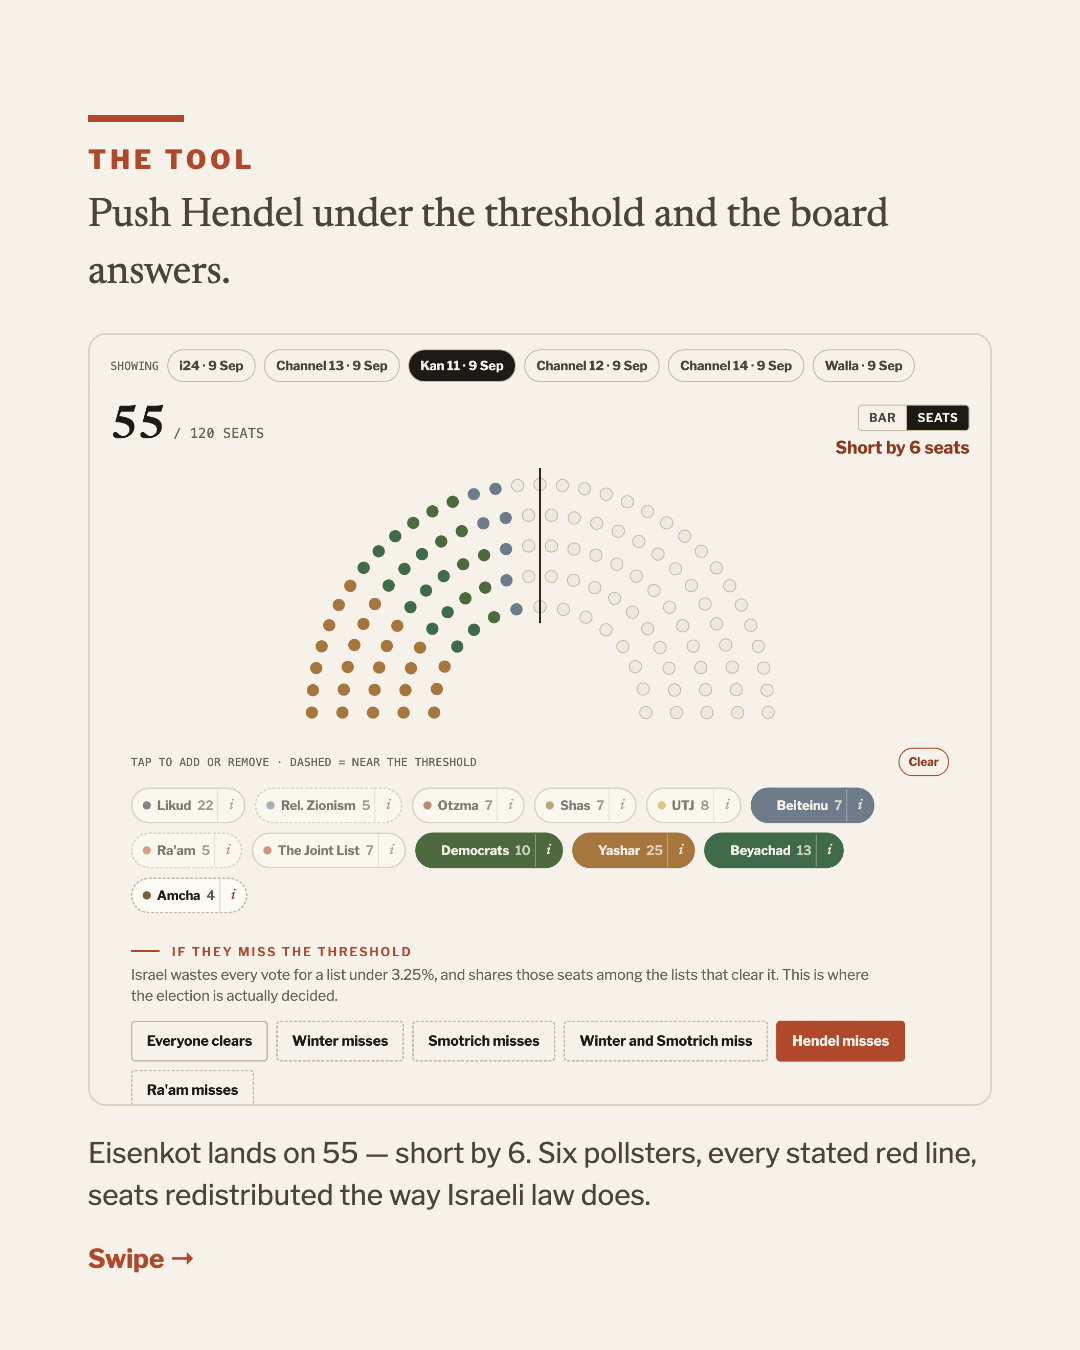
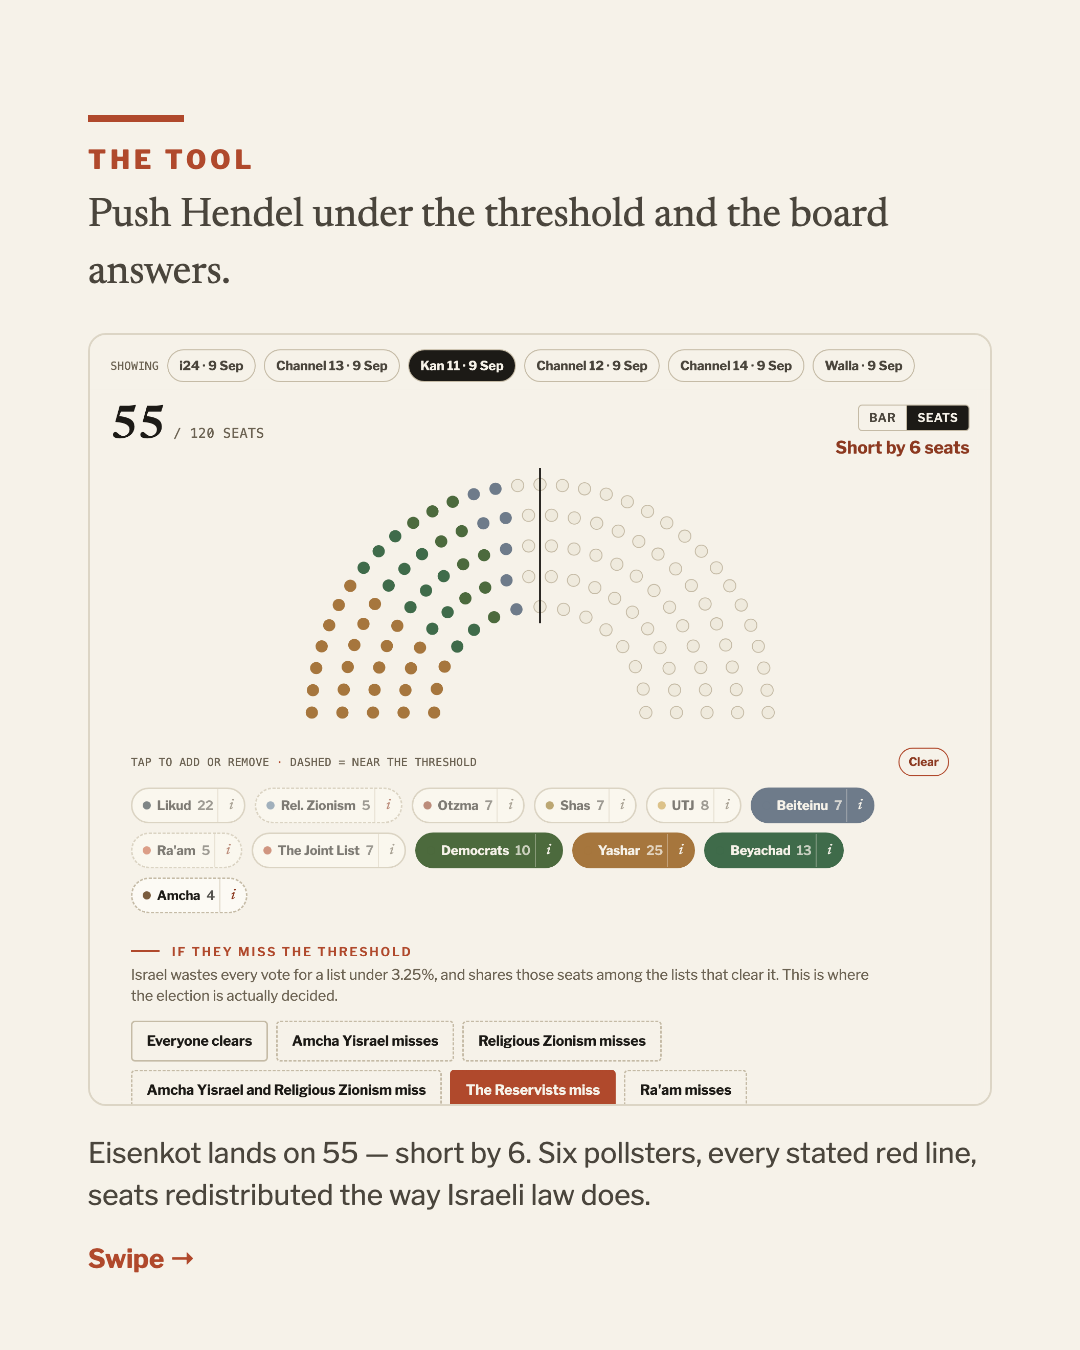
Name lists, not leaders, in the threshold buttons — and add Noam
The buttons mixed conventions: five leader names and one party name
("Ra'am misses"). They now all name the list, which also closes a smaller
gap — pressing "Hendel misses" made a chip labelled "Reservists" vanish,
so the button and the thing it changed did not share a name.

Adds Noam. It polls inside Wikipedia's "Others" column, so the scraper
cannot see it and the figure is set by hand; it is given "under 1%" rather
than a number no pollster publishes.

That exposed a gap: a party on zero seats renders nowhere at all, so The
Haredi Public has been invisible since it was added. The threshold section
now closes with the lists already under the line — Blue & White, The
Haredi Public and Noam — built from the board itself, so it cannot drift
from the data and a party that climbs over 3.25% leaves the sentence on
its own.

Changed region(s): [[0.1528, 0.7467, 0.8556, 0.84]]

diff --git a/index.html b/index.html
@@ -378,7 +378,7 @@
       </div>
       <div style="height:22px;"></div>
       </sc-if>
-      <div style="max-width:1140px;margin:0 auto;padding:16px 20px 6px;"><div style="display:flex;align-items:center;justify-content:space-between;gap:10px;margin-bottom:11px;"><span class="ek-meta" style="font-size:0.68rem;">Tap to add or remove <span style="color:var(--clay);">·</span> dashed = near the threshold</span><sc-if value="{{ hasCoalition }}" hint-placeholder-val="{{ false }}"><span style="display:inline-flex;gap:6px;flex:none;"><sc-if value="{{ canUndo }}" hint-placeholder-val="{{ false }}"><button sc-camel-on-click="{{ undo }}" aria-label="Undo the last change" style="font-family:var(--font-sans);font-weight:700;font-size:0.72rem;padding:4px 9px;min-height:28px;background:none;color:var(--ink-3);border:1px solid var(--rule-strong);border-radius:var(--r-pill);cursor:pointer;">↺ Undo</button></sc-if><button sc-camel-on-click="{{ clearAll }}" aria-label="Clear the coalition" style="font-family:var(--font-sans);font-weight:700;font-size:0.72rem;padding:4px 9px;min-height:28px;background:none;color:var(--clay-deep);border:1px solid var(--clay);border-radius:var(--r-pill);cursor:pointer;">Clear</button></span></sc-if></div><div style="display:flex;flex-wrap:wrap;gap:9px;"><sc-for list="{{ quickParties }}" as="q" hint-placeholder-count="0"><span style="display:inline-flex;align-items:stretch;border:1.5px {{ q.borderStyle }} {{ q.border }};border-radius:var(--r-pill);background:{{ q.bg }};overflow:hidden;opacity:{{ q.opacity }};"><button sc-camel-on-click="{{ q.toggle }}" aria-pressed="{{ q.inCoalition }}" aria-label="{{ q.aria }}" title="{{ q.title }}" style="display:inline-flex;align-items:center;gap:6px;font-family:var(--font-sans);font-weight:700;font-size:0.78rem;padding:5px 4px 5px 10px;min-height:32px;background:none;color:{{ q.fg }};border:none;cursor:pointer;"><span style="width:8px;height:8px;border-radius:50%;background:{{ q.dot }};flex:none;"></span>{{ q.name }} <span style="font-weight:600;opacity:0.75;">{{ q.seats }}</span></button><button sc-camel-on-click="{{ q.info }}" aria-label="{{ q.infoAria }}" title="{{ q.infoAria }}" style="display:inline-flex;align-items:center;justify-content:center;width:26px;min-height:32px;background:none;border:none;border-left:1px solid {{ q.divider }};color:{{ q.infoFg }};font-family:var(--font-serif);font-style:italic;font-size:0.86rem;cursor:pointer;flex:none;">i</button></span></sc-for></div></div><sc-if value="{{ hasThresholdScenarios }}" hint-placeholder-val="{{ false }}"><div style="max-width:1140px;margin:0 auto;padding:26px 20px 30px;"><div style="display:flex;align-items:baseline;gap:12px;margin-bottom:6px;"><div style="width:28px;height:2px;background:var(--clay);flex:none;transform:translateY(-4px);"></div><div class="ek-kicker" style="font-size:0.75rem;white-space:nowrap;">IF THEY MISS THE THRESHOLD</div></div><p class="ek-caption" style="margin:0 0 14px;max-width:46rem;">Israel wastes every vote for a list under 3.25%, and shares those seats among the lists that clear it. This is where the election is actually decided.</p><div style="display:flex;flex-wrap:wrap;gap:8px;"><sc-for list="{{ thresholdScenarios }}" as="t" hint-placeholder-count="0"><button sc-camel-on-click="{{ t.apply }}" aria-pressed="{{ t.active }}" style="font-family:var(--font-sans);font-weight:700;font-size:0.85rem;padding:9px 14px;min-height:40px;background:{{ t.bg }};color:{{ t.fg }};border:1.5px {{ t.borderStyle }} {{ t.border }};border-radius:var(--r-sm);cursor:pointer;opacity:{{ t.opacity }};" title="{{ t.title }}" aria-disabled="{{ t.moot }}">{{ t.label }}</button></sc-for></div></div></sc-if><div style="max-width:1140px;margin:0 auto;padding:20px 20px 26px;">
+      <div style="max-width:1140px;margin:0 auto;padding:16px 20px 6px;"><div style="display:flex;align-items:center;justify-content:space-between;gap:10px;margin-bottom:11px;"><span class="ek-meta" style="font-size:0.68rem;">Tap to add or remove <span style="color:var(--clay);">·</span> dashed = near the threshold</span><sc-if value="{{ hasCoalition }}" hint-placeholder-val="{{ false }}"><span style="display:inline-flex;gap:6px;flex:none;"><sc-if value="{{ canUndo }}" hint-placeholder-val="{{ false }}"><button sc-camel-on-click="{{ undo }}" aria-label="Undo the last change" style="font-family:var(--font-sans);font-weight:700;font-size:0.72rem;padding:4px 9px;min-height:28px;background:none;color:var(--ink-3);border:1px solid var(--rule-strong);border-radius:var(--r-pill);cursor:pointer;">↺ Undo</button></sc-if><button sc-camel-on-click="{{ clearAll }}" aria-label="Clear the coalition" style="font-family:var(--font-sans);font-weight:700;font-size:0.72rem;padding:4px 9px;min-height:28px;background:none;color:var(--clay-deep);border:1px solid var(--clay);border-radius:var(--r-pill);cursor:pointer;">Clear</button></span></sc-if></div><div style="display:flex;flex-wrap:wrap;gap:9px;"><sc-for list="{{ quickParties }}" as="q" hint-placeholder-count="0"><span style="display:inline-flex;align-items:stretch;border:1.5px {{ q.borderStyle }} {{ q.border }};border-radius:var(--r-pill);background:{{ q.bg }};overflow:hidden;opacity:{{ q.opacity }};"><button sc-camel-on-click="{{ q.toggle }}" aria-pressed="{{ q.inCoalition }}" aria-label="{{ q.aria }}" title="{{ q.title }}" style="display:inline-flex;align-items:center;gap:6px;font-family:var(--font-sans);font-weight:700;font-size:0.78rem;padding:5px 4px 5px 10px;min-height:32px;background:none;color:{{ q.fg }};border:none;cursor:pointer;"><span style="width:8px;height:8px;border-radius:50%;background:{{ q.dot }};flex:none;"></span>{{ q.name }} <span style="font-weight:600;opacity:0.75;">{{ q.seats }}</span></button><button sc-camel-on-click="{{ q.info }}" aria-label="{{ q.infoAria }}" title="{{ q.infoAria }}" style="display:inline-flex;align-items:center;justify-content:center;width:26px;min-height:32px;background:none;border:none;border-left:1px solid {{ q.divider }};color:{{ q.infoFg }};font-family:var(--font-serif);font-style:italic;font-size:0.86rem;cursor:pointer;flex:none;">i</button></span></sc-for></div></div><sc-if value="{{ hasThresholdScenarios }}" hint-placeholder-val="{{ false }}"><div style="max-width:1140px;margin:0 auto;padding:26px 20px 30px;"><div style="display:flex;align-items:baseline;gap:12px;margin-bottom:6px;"><div style="width:28px;height:2px;background:var(--clay);flex:none;transform:translateY(-4px);"></div><div class="ek-kicker" style="font-size:0.75rem;white-space:nowrap;">IF THEY MISS THE THRESHOLD</div></div><p class="ek-caption" style="margin:0 0 14px;max-width:46rem;">Israel wastes every vote for a list under 3.25%, and shares those seats among the lists that clear it. This is where the election is actually decided.</p><div style="display:flex;flex-wrap:wrap;gap:8px;"><sc-for list="{{ thresholdScenarios }}" as="t" hint-placeholder-count="0"><button sc-camel-on-click="{{ t.apply }}" aria-pressed="{{ t.active }}" style="font-family:var(--font-sans);font-weight:700;font-size:0.85rem;padding:9px 14px;min-height:40px;background:{{ t.bg }};color:{{ t.fg }};border:1.5px {{ t.borderStyle }} {{ t.border }};border-radius:var(--r-sm);cursor:pointer;opacity:{{ t.opacity }};" title="{{ t.title }}" aria-disabled="{{ t.moot }}">{{ t.label }}</button></sc-for></div><sc-if value="{{ hasBelowThreshold }}" hint-placeholder-val="{{ false }}"><p class="ek-caption" style="margin:14px 0 0;max-width:46rem;"><strong style="color:var(--ink-2);">Already below it:</strong> <sc-for list="{{ belowThreshold }}" as="b" hint-placeholder-count="0"><span>{{ b.text }}</span></sc-for> None of them wins a seat on current polling, so none is in the arithmetic above — but their votes are part of what gets redistributed.</p></sc-if></div></sc-if><div style="max-width:1140px;margin:0 auto;padding:20px 20px 26px;">
     <div style="display:flex;align-items:baseline;gap:12px;margin-bottom:12px;">
       <div style="width:28px;height:2px;background:var(--clay);flex:none;transform:translateY(-4px);"></div>
       <div class="ek-kicker" style="font-size:0.75rem;white-space:nowrap;">TRY A SCENARIO</div>
@@ -1938,6 +1938,17 @@ class Component extends DCLogic {
           ? 'var(--paper)' : 'var(--ink-2)',
         pick: () => this.pickPoll(a.isHeadline ? null : a.id)
       })),
+      /* A list polling under the threshold never appears as a chip, because
+         a party on zero seats has nothing to add to a coalition. Naming
+         them here is the only place a reader learns they are running. */
+      belowThreshold: (() => {
+        const out = PARTIES_VIEW.filter(p => !p.seats && !p.missedThreshold);
+        return out.map((p, i) => ({
+          text: p.name + (p.pct ? ' (' + p.pct + ')' : '')
+            + (i < out.length - 2 ? ', ' : i === out.length - 2 ? ' and ' : '. ')
+        }));
+      })(),
+      hasBelowThreshold: PARTIES_VIEW.some(p => !p.seats && !p.missedThreshold),
       hasThresholdScenarios: !!(commentary && commentary.thresholdScenarios),
       thresholdScenarios: ((commentary && commentary.thresholdScenarios) || []).map(t => {
         const drop = t.drop || [];

diff --git a/scripts/build_site.py b/scripts/build_site.py
@@ -680,7 +680,7 @@ METHOD_P2_NEW = '<p class="ek-caption" style="margin:0 0 8px;max-width:44rem;tex
 SCENARIOS_ANCHOR = '<div style="max-width:1140px;margin:0 auto;padding:20px 20px 26px;">'
 COALITION_ANCHOR = '<div style="max-width:1140px;margin:0 auto;padding:22px 20px 0;">'
 THRESH_ANCHOR = '<sc-if value="{{ hasIssues }}" hint-placeholder-val="{{ false }}">'
-THRESH_BLOCK = '<sc-if value="{{ hasThresholdScenarios }}" hint-placeholder-val="{{ false }}"><div style="max-width:1140px;margin:0 auto;padding:26px 20px 30px;"><div style="display:flex;align-items:baseline;gap:12px;margin-bottom:6px;"><div style="width:28px;height:2px;background:var(--clay);flex:none;transform:translateY(-4px);"></div><div class="ek-kicker" style="font-size:0.75rem;white-space:nowrap;">IF THEY MISS THE THRESHOLD</div></div><p class="ek-caption" style="margin:0 0 14px;max-width:46rem;">Israel wastes every vote for a list under 3.25%, and shares those seats among the lists that clear it. This is where the election is actually decided.</p><div style="display:flex;flex-wrap:wrap;gap:8px;"><sc-for list="{{ thresholdScenarios }}" as="t" hint-placeholder-count="0"><button sc-camel-on-click="{{ t.apply }}" aria-pressed="{{ t.active }}" style="font-family:var(--font-sans);font-weight:700;font-size:0.85rem;padding:9px 14px;min-height:40px;background:{{ t.bg }};color:{{ t.fg }};border:1.5px {{ t.borderStyle }} {{ t.border }};border-radius:var(--r-sm);cursor:pointer;opacity:{{ t.opacity }};" title="{{ t.title }}" aria-disabled="{{ t.moot }}">{{ t.label }}</button></sc-for></div></div></sc-if>'
+THRESH_BLOCK = '<sc-if value="{{ hasThresholdScenarios }}" hint-placeholder-val="{{ false }}"><div style="max-width:1140px;margin:0 auto;padding:26px 20px 30px;"><div style="display:flex;align-items:baseline;gap:12px;margin-bottom:6px;"><div style="width:28px;height:2px;background:var(--clay);flex:none;transform:translateY(-4px);"></div><div class="ek-kicker" style="font-size:0.75rem;white-space:nowrap;">IF THEY MISS THE THRESHOLD</div></div><p class="ek-caption" style="margin:0 0 14px;max-width:46rem;">Israel wastes every vote for a list under 3.25%, and shares those seats among the lists that clear it. This is where the election is actually decided.</p><div style="display:flex;flex-wrap:wrap;gap:8px;"><sc-for list="{{ thresholdScenarios }}" as="t" hint-placeholder-count="0"><button sc-camel-on-click="{{ t.apply }}" aria-pressed="{{ t.active }}" style="font-family:var(--font-sans);font-weight:700;font-size:0.85rem;padding:9px 14px;min-height:40px;background:{{ t.bg }};color:{{ t.fg }};border:1.5px {{ t.borderStyle }} {{ t.border }};border-radius:var(--r-sm);cursor:pointer;opacity:{{ t.opacity }};" title="{{ t.title }}" aria-disabled="{{ t.moot }}">{{ t.label }}</button></sc-for></div><sc-if value="{{ hasBelowThreshold }}" hint-placeholder-val="{{ false }}"><p class="ek-caption" style="margin:14px 0 0;max-width:46rem;"><strong style="color:var(--ink-2);">Already below it:</strong> <sc-for list="{{ belowThreshold }}" as="b" hint-placeholder-count="0"><span>{{ b.text }}</span></sc-for> None of them wins a seat on current polling, so none is in the arithmetic above — but their votes are part of what gets redistributed.</p></sc-if></div></sc-if>'
 
 
 SHARE_TEXT_OLD = "    const names = coalitionPartiesRaw.map(p => p.name).join(', ');\n    return `Road to 61: I built a ${totalSeats}-seat Knesset coalition (${governs ? 'it governs' : 'it falls short of 61'}): ${names}. Build your own —`;"
@@ -1793,6 +1793,17 @@ def build(export_path, out_html):
     html = patch(
         html,
         "      hasDropped: dropped.length > 0,",
+        "      /* A list polling under the threshold never appears as a chip, because\n"
+        "         a party on zero seats has nothing to add to a coalition. Naming\n"
+        "         them here is the only place a reader learns they are running. */\n"
+        "      belowThreshold: (() => {\n"
+        "        const out = PARTIES_VIEW.filter(p => !p.seats && !p.missedThreshold);\n"
+        "        return out.map((p, i) => ({\n"
+        "          text: p.name + (p.pct ? ' (' + p.pct + ')' : '')\n"
+        "            + (i < out.length - 2 ? ', ' : i === out.length - 2 ? ' and ' : '. ')\n"
+        "        }));\n"
+        "      })(),\n"
+        "      hasBelowThreshold: PARTIES_VIEW.some(p => !p.seats && !p.missedThreshold),\n"
         "      hasThresholdScenarios: !!(commentary && commentary.thresholdScenarios),\n"
         "      thresholdScenarios: ((commentary && commentary.thresholdScenarios) || []).map(t => {\n"
         "        const drop = t.drop || [];\n"
